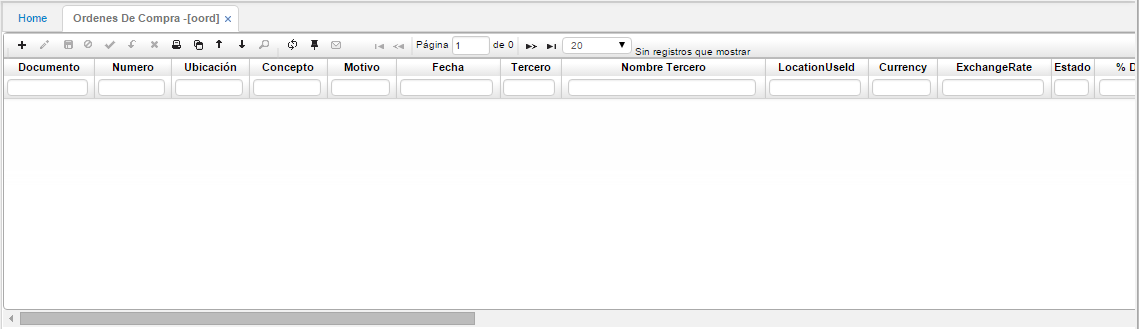
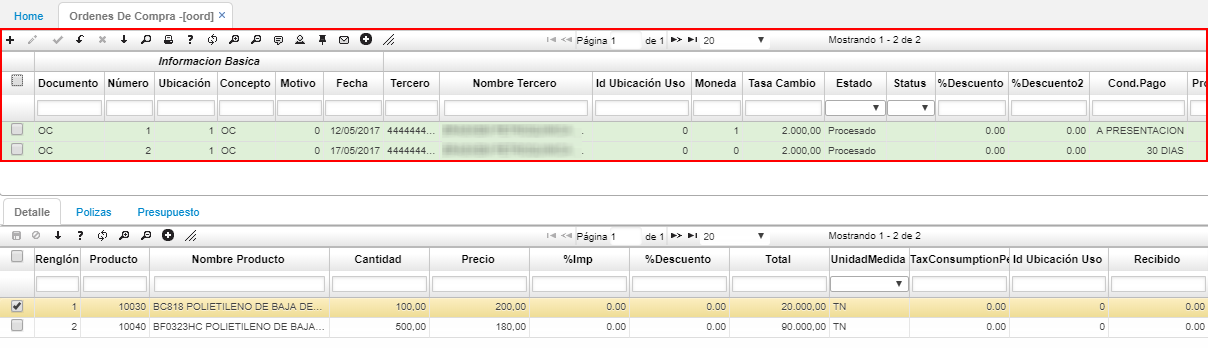
oord

diff --git a/Operacion/scm/importacion/yimportaci/yimp.md b/Operacion/scm/importacion/yimportaci/yimp.md
@@ -63,5 +63,30 @@ Es necesario que a la cuenta creada de importaciones se parametrice el módulo _
 
 ![](yimp5.png)
 
+### Proceso de importaciones
+
+
+Para iniciar con el proceso de importaciones debemos crear una órden de compra en la aplicación [**OORD - Ordenes de compra**](http://docs.oasiscom.com/Operacion/scm/compras/oorden/oord).  
+
+La orden de compra se hace al proveedor en la moneda de negociación utilizando una tasa de cambio de referencia.  
+
+
+
+
+
+
+
+
+
+
+
+
+
+
+
+
+
+
+
 
 
